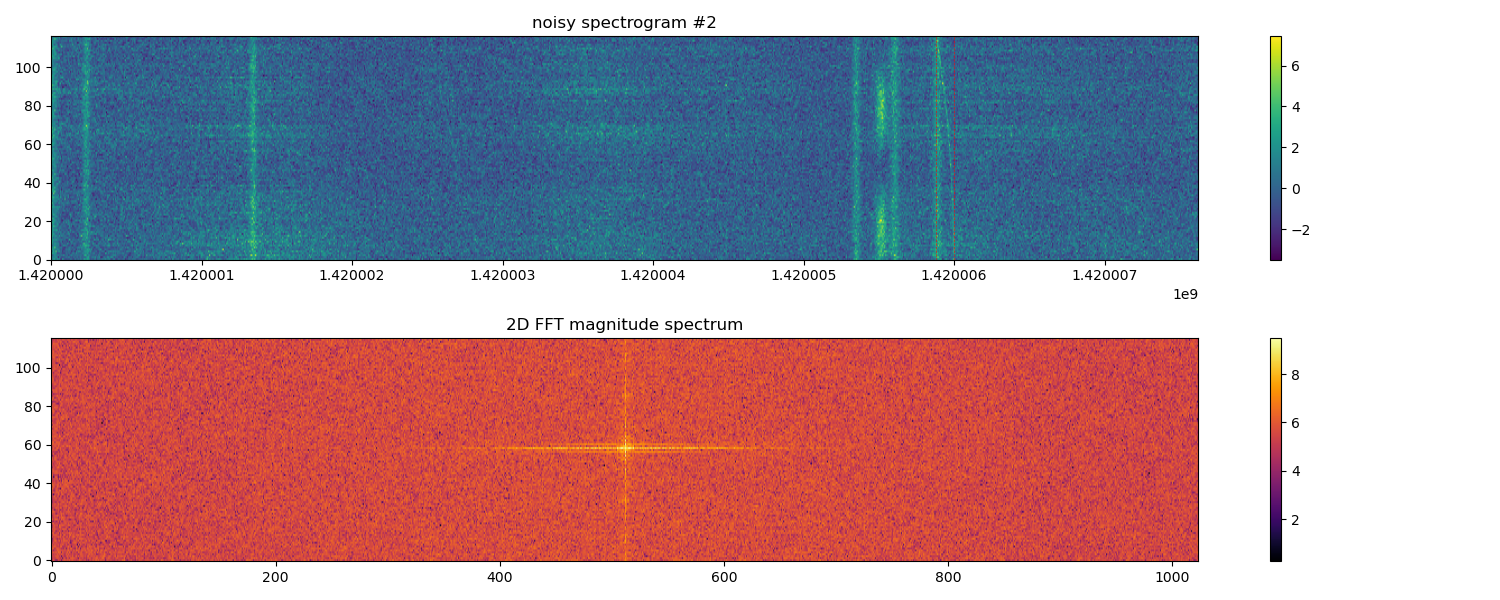
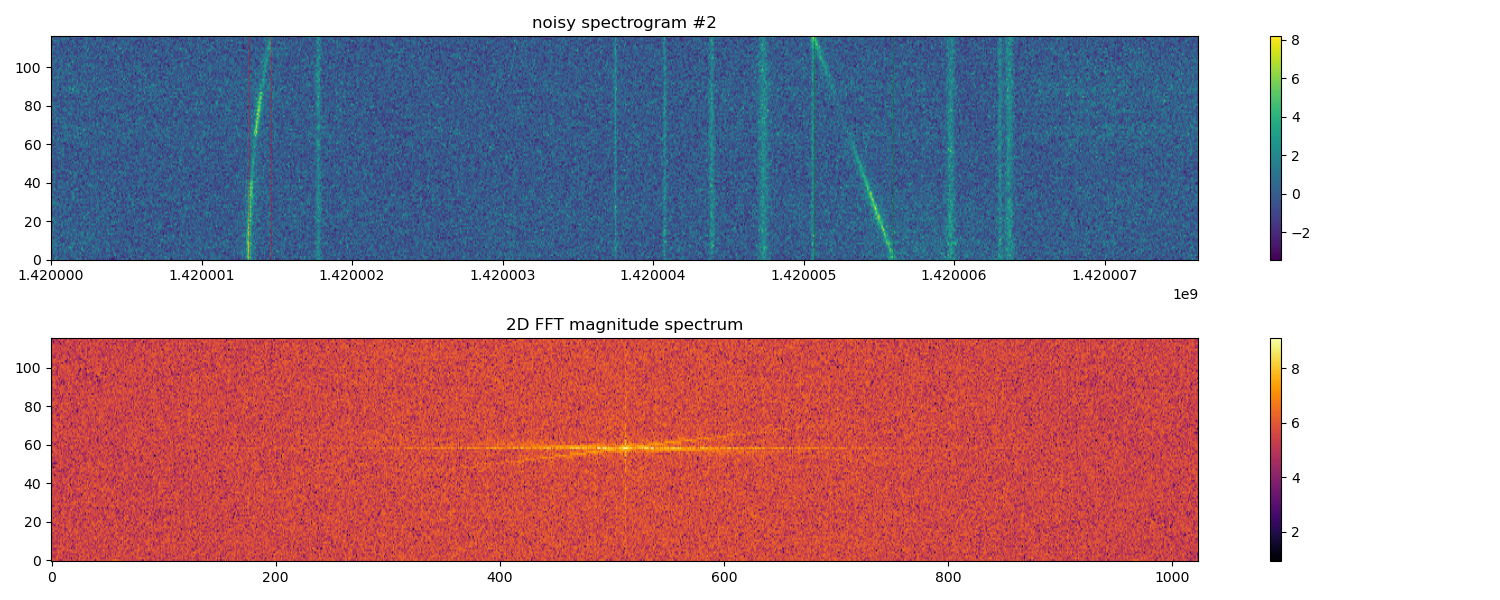
Adjusted data arguement

Changed region(s): [[0.0307, 0.06, 0.7973, 0.45], [0.0307, 0.57, 0.7973, 0.93]]

diff --git a/gen/SETIdataset.py b/gen/SETIdataset.py
@@ -102,8 +102,6 @@ class DynamicSpectrumDataset(Dataset):
             # 随机路径类型
             path_type = random.choices(['constant', 'sine', 'squared', 'rfi'],
                                        weights=[0.65, 0.1, 0.25, 0.])[0]
-            # 默认信号参数
-            margin = int(0.2 * self.fchans)
 
             def _truncated_normal(a, b, mean=0.0, std=1.2):
                 lower = (a - mean) / std
@@ -117,10 +115,18 @@ class DynamicSpectrumDataset(Dataset):
                 # !!⚠ 较大的 drift rate 在轨迹为抛物线时可能出现类似直线但是无法标记为 candidate 的情况
                 if abs(drift_rate) >= self.drift_min_abs:
                     break
-            if drift_rate < 0:
-                f_index = self.fchans // 2 + np.random.randint(0, self.fchans // 2 - margin)
-            else:
-                f_index = self.fchans // 2 - np.random.randint(0, self.fchans // 2 - margin)
+
+            margin = int(0.025 * self.fchans)
+
+            # if drift_rate < 0:
+            #     f_index = self.fchans // 2 + np.random.randint(0, self.fchans // 2 - margin)
+            # else:
+            #     f_index = self.fchans // 2 - np.random.randint(0, self.fchans // 2 - margin)
+
+            f_min = margin if drift_rate < 0 else 0
+            f_max = self.fchans - 1 if drift_rate < 0 else self.fchans - margin
+
+            f_index = np.random.randint(f_min, f_max)
 
             # 随机信噪比和宽度
             snr = random.uniform(self.snr_min, self.snr_max)
@@ -496,6 +502,6 @@ if __name__ == "__main__":
         from arXiv:2502.20419v1 [astro-ph.IM] 27 Feb 2025
     """
 
-    # plot_samples(dataset, kind='clean', num=100, with_spectrum=True, spectrum_type='mean')
+    plot_samples(dataset, kind='clean', num=50, with_spectrum=True, spectrum_type='mean')
     plot_samples(dataset, kind='noisy', num=30, with_spectrum=True, spectrum_type='fft2d')
     # plot_samples(dataset, kind='mask', num=30, with_spectrum=False)

diff --git a/gen/SETIgen.py b/gen/SETIgen.py
@@ -235,7 +235,7 @@ def sim_dynamic_spec_seti(fchans, tchans, df, dt, fch1=None, ascending=False, si
 
             # 计算起始和终止频率索引
             f_start = frame.get_index(path(frame.ts[0]))
-            f_stop = frame.get_index(path(frame.ts[tchans - 1]))
+            f_stop = np.clip(frame.get_index(path(frame.ts[tchans - 1])), 0, fchans - 1)
             f_starts.append(f_start)
             f_stops.append(f_stop)
 
